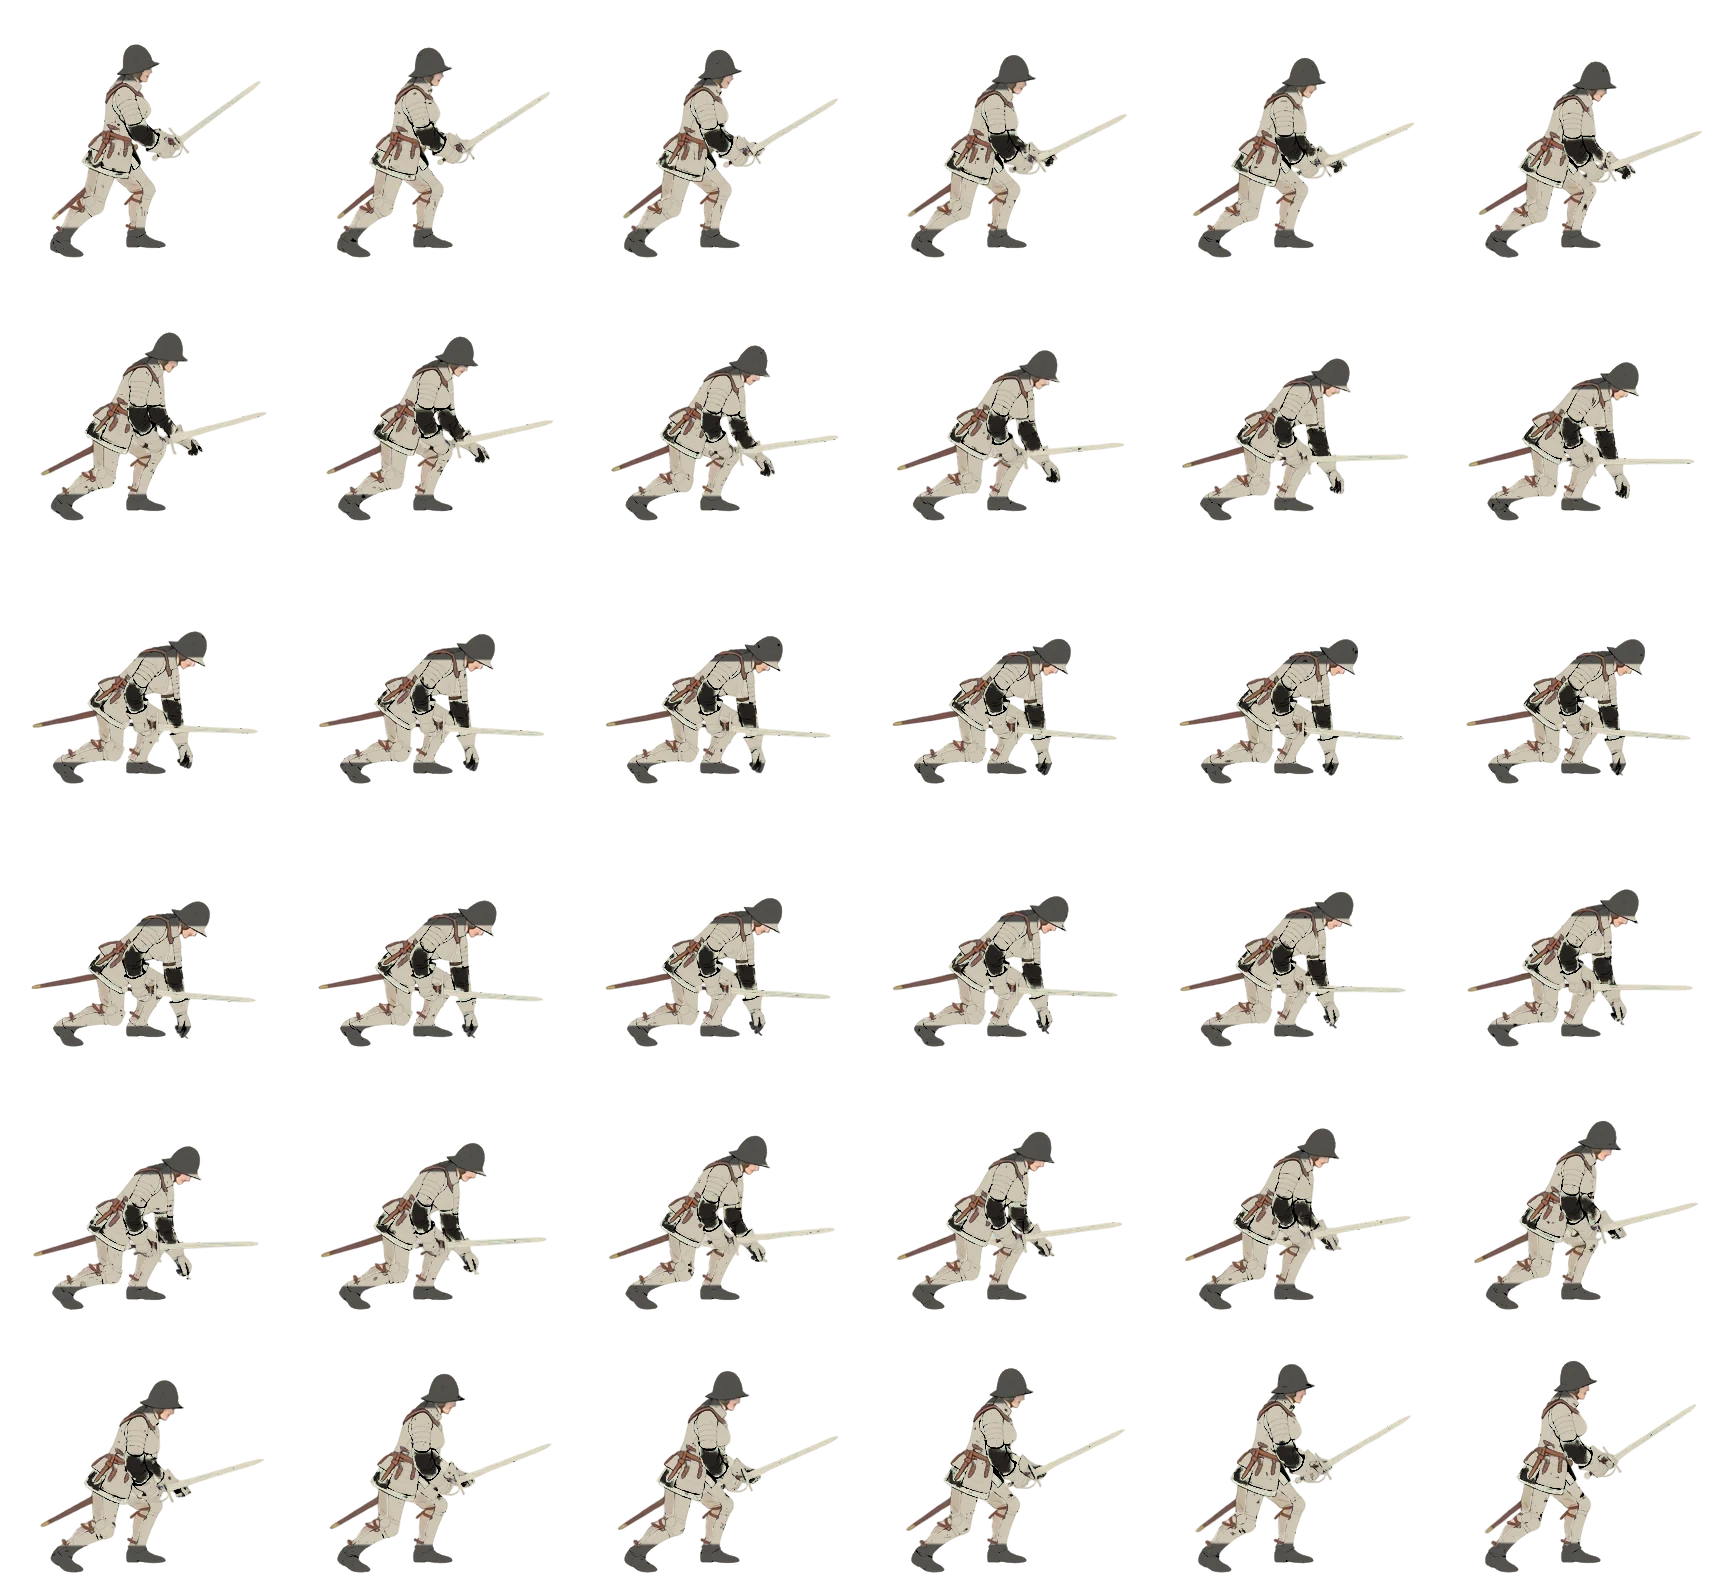
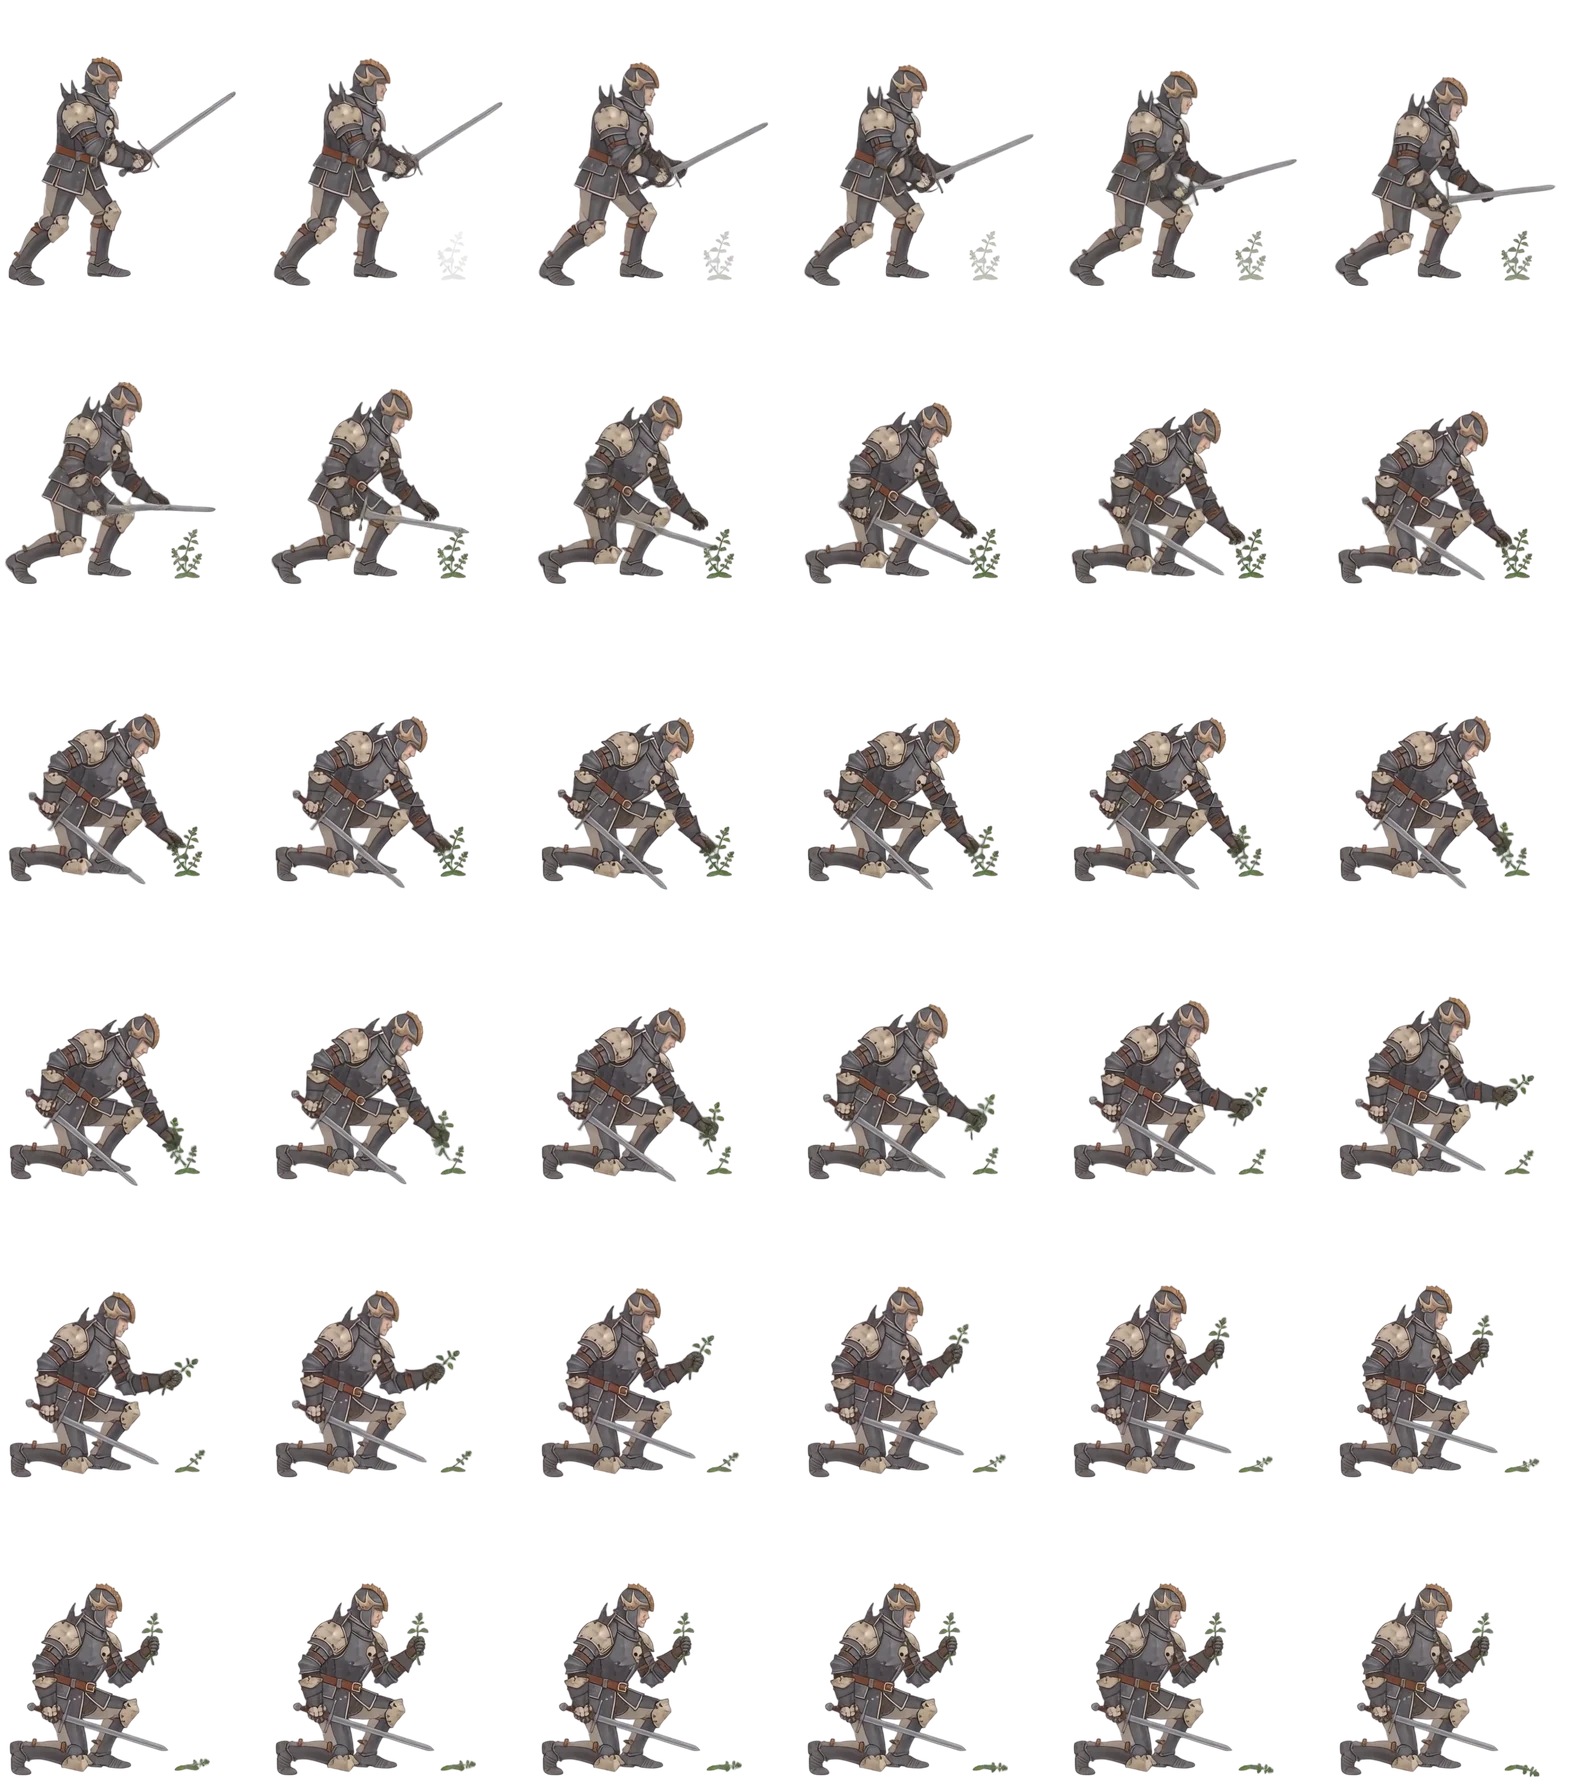
Fossoyeur : image de combat fidèle aux icônes du set, animations de carte Ludo (marche, minage, abattage, cueillette ; masculin et féminin)
L'ancienne image était presque blanche avec un heaume fermé, alors que le set est en fer sombre avec
des plaques d'os, un crâne et des pointes aux épaules. Nouveau script scripts/build-hero-outfit.py pour
assembler les animations d'une tenue ; la recoloration du Fossoyeur est retirée de recolor-hero.py.

Claude-Session: https://claude.ai/code/session_018rB1oVJsRriVojRURA2hky

diff --git a/scripts/build-hero-outfit.py b/scripts/build-hero-outfit.py
@@ -1,0 +1,48 @@
+"""
+Assemble les animations Ludo d'UNE tenue (un corps) en feuilles compactes pour le jeu, avec les mêmes réglages que build-hero-anims.py.
+
+Entrée  : un dossier avec <action>.webp (walk, mine, chop, herb : feuilles Ludo en « True Size », cellules de 760x700 alignées sur le cadre
+          source où les pieds du héros sont à (330, 670)) et jobs.json : { "walk": {"cols":6,"rows":6,"frames":36,"duration":2.1}, ... }
+Sortie  : public/assets/hero/<corps>/<tenue>/<action>.webp + métadonnées de src/data/heroAnims.json (clé "<corps>/<tenue>")
+          Le champ pngH (hauteur du héros dans le cadre source, 384) est celui des autres tenues.
+
+Usage   : python3 -I scripts/build-hero-outfit.py <dossier_entrée> <tenue> <corps>      ex. /tmp/foss fossoyeur m
+"""
+import json, os, sys
+from PIL import Image
+
+SRC, OUTFIT, BODY = sys.argv[1], sys.argv[2], sys.argv[3]
+ROOT = os.path.join(os.path.dirname(os.path.abspath(__file__)), "..")
+OUT = os.path.join(ROOT, "public", "assets", "hero", BODY, OUTFIT)
+META = os.path.join(ROOT, "src", "data", "heroAnims.json")
+FEET, SCALE, PAD, PNG_H = (330, 670), 0.6, 6, 384
+ACTIONS = ["walk", "mine", "chop", "herb"]
+jobs = json.load(open(os.path.join(SRC, "jobs.json")))
+
+def frames_of(path, m):
+    im = Image.open(path).convert("RGBA"); cw, ch = im.width // m["cols"], im.height // m["rows"]
+    return [im.crop(((i % m["cols"]) * cw, (i // m["cols"]) * ch, (i % m["cols"] + 1) * cw, (i // m["cols"] + 1) * ch)) for i in range(m["frames"])]
+
+per = {a: frames_of(os.path.join(SRC, a + ".webp"), jobs[a]) for a in ACTIONS}
+# boîte commune à toutes les actions (même point d'appui partout)
+x0 = y0 = 10**9; x1 = y1 = 0
+for fr in per.values():
+    for f in fr:
+        bb = f.getchannel("A").point(lambda a: 255 if a > 24 else 0).getbbox()
+        if bb: x0, y0, x1, y1 = min(x0, bb[0]), min(y0, bb[1]), max(x1, bb[2]), max(y1, bb[3])
+x0, y0, x1, y1 = max(0, x0 - PAD), max(0, y0 - PAD), min(760, x1 + PAD), min(700, y1 + PAD)
+fw, fh = round((x1 - x0) * SCALE), round((y1 - y0) * SCALE)
+meta = {"w": fw, "h": fh, "box": [x0, y0, x1, y1], "anchor": [round((FEET[0] - x0) * SCALE, 1), round((FEET[1] - y0) * SCALE, 1)],
+        "scale": SCALE, "actions": {}, "pngH": PNG_H}
+os.makedirs(OUT, exist_ok=True)
+for act, fr in per.items():
+    n = len(fr); cols = min(n, 6); rows = (n + cols - 1) // cols
+    sheet = Image.new("RGBA", (cols * fw, rows * fh), (0, 0, 0, 0))
+    for i, f in enumerate(fr):
+        g = f.crop((x0, y0, x1, y1)).convert("RGBa").resize((fw, fh), Image.LANCZOS).convert("RGBA")
+        sheet.paste(g, ((i % cols) * fw, (i // cols) * fh))
+    sheet.save(os.path.join(OUT, act + ".webp"), quality=88, method=6)
+    meta["actions"][act] = {"frames": n, "cols": cols, "rows": rows, "duration": round(jobs[act]["duration"], 3)}
+allm = json.load(open(META)); allm[f"{BODY}/{OUTFIT}"] = meta
+json.dump(allm, open(META, "w"), indent=1, ensure_ascii=False)
+print("ok", BODY, OUTFIT, (fw, fh), {a: len(f) for a, f in per.items()})

diff --git a/scripts/recolor-hero.py b/scripts/recolor-hero.py
@@ -1,7 +1,7 @@
 """
 Recolore GRATUITEMENT les feuilles d'animation du héros pour fabriquer la tenue d'un set sans payer de génération Ludo.
 
-  python3 -I scripts/recolor-hero.py <tenue>          ex. fossoyeur
+  python3 -I scripts/recolor-hero.py <tenue>          ex. un nom de tenue défini dans OUTFITS
 Source  : public/assets/hero/<corps>/<tenue de base>/<action>.webp   (veteran pour les guerriers, traqueur pour les assassins, apprenti pour les mages)
 Sortie  : public/assets/hero/<corps>/<tenue>/<action>.webp  + métadonnées copiées dans src/data/heroAnims.json
 Chaque tenue décrit des règles de teinte : (zone de teinte, saturation) -> nouvelle teinte, saturation et luminosité.
@@ -22,15 +22,11 @@ def smooth(x, a, b):
 # Règles : chaque règle a un masque doux (poids 0..1) et une transformation.
 #   steel  = métal gris (peu saturé, ni noir ni blanc) ;  cloth = tissu coloré (teinte dans [h0,h1], saturation minimale)
 OUTFITS = {
-    "fossoyeur": {
-        "base": "veteran",
-        "rules": [
-            {"kind": "bone", "val": 0.86, "sat": 0.13, "hue": 42},                                  # armure : plaques d'os pâle (comme l'image de combat)
-            {"kind": "dark", "from": 0.0, "to": 0.17, "val": 0.15},                                  # heaume noir (le haut du personnage, dans chaque image)
-            {"kind": "dark", "from": 0.86, "to": 1.0, "val": 0.17},                                  # bottes noires (le bas)
-            {"kind": "cloth", "hue": (130, 210), "sat_min": 0.10, "to_hue": 28, "to_sat": 0.18, "val_add": -0.30, "val_mul": 0.60},   # tunique verdâtre -> cuir sombre
-        ],
-    },
+    # (aucune tenue pour l'instant : le Fossoyeur a de vraies animations Ludo, voir build-hero-outfit.py.) Exemple de règles :
+    # "nom_du_set": {"base": "veteran", "rules": [
+    #     {"kind": "bone", "val": 0.86, "sat": 0.13, "hue": 42},                 # métal gris -> os pâle
+    #     {"kind": "dark", "from": 0.0, "to": 0.17, "val": 0.15},                # haut du personnage (heaume) très sombre
+    #     {"kind": "cloth", "hue": (130, 210), "sat_min": 0.10, "to_hue": 28, "to_sat": 0.18, "val_add": -0.30, "val_mul": 0.60}]},
 }
 
 def rgb_to_hsv(rgb):

diff --git a/README.md b/README.md
@@ -262,4 +262,4 @@ Le Bestiaire a un second bouton, **Équipements** : les 88 équipements du jeu (
 
 **Niveau minimum pour s'équiper** (`utils/equipReq.js`, logique dans `utils/equip.js`) : une pièce demande le niveau où commence sa région, soit palier 1 : aucun, palier 2 : 8, palier 3 : 14, palier 4 (donjon) : 20 ; les objets de boss sans palier ont le niveau de leur région (cape de l'Épouvantail 5, cœur de braise 8, anneau du Cavalier et armure maudite 14, armes du Veilleur 20). Le sac et la fiche du personnage grisent la pièce (« Niveau N requis »), la fiche du bestiaire l'indique. On peut fabriquer, ranger et vendre une pièce trop haute ; une pièce déjà portée (vieille sauvegarde) reste portée. Les simulés s'équipent plus tard que ces niveaux (10, 16, 20), aucun ne peut la contourner. Test : `scripts/test-equipreq.js`.
 
-Un set porté à 2 pièces ou plus change l'apparence du héros (ou on la choisit dans la fiche du personnage une fois une pièce du set possédée). Les trois premiers sets avaient leurs images ; les autres sont ajoutés un par un, à petit prix : l'**image de combat** (corps masculin et féminin) est générée avec Ludo (1,5 crédit par essai de 3 variantes), et les **animations de la carte** (marche, minage, abattage, cueillette) sont fabriquées gratuitement en recolorant celles de la tenue de base de la même classe avec `python3 -I scripts/recolor-hero.py <tenue>` (règles par tenue dans le script : teinte du métal et du tissu, plaques d'os, et zones sombres en haut et en bas du personnage pour le heaume et les bottes ; les feuilles et les métadonnées de `heroAnims.json` sont écrites toutes seules). Pour ajouter une tenue : image de combat dans `public/assets/combat/hero/{m,f}/<set>.webp`, une entrée dans `OUTFITS` du script, puis le nom du set dans `HERO_OUTFITS` et `OUTFIT_LABELS` (`src/data/heroSprites.js`). `scripts/test-heroskins.js` vérifie que chaque tenue proposée a toutes ses images. Faits : Fossoyeur. À faire : Charognard, Brasier, Chevalier Déchu, Loup-Garou, Esprit Errant, Garde Noyé, Veneur, Veuve.
+Un set porté à 2 pièces ou plus change l'apparence du héros (ou on la choisit dans la fiche du personnage une fois une pièce du set possédée). Les trois premiers sets avaient leurs images ; les autres sont ajoutés un par un, à petit prix : l'**image de combat** (corps masculin et féminin) est générée avec Ludo (1,5 crédit par essai de 3 variantes), et les **animations de la carte** (marche, minage, abattage, cueillette) sont fabriquées gratuitement en recolorant celles de la tenue de base de la même classe avec `python3 -I scripts/recolor-hero.py <tenue>` (règles par tenue dans le script : teinte du métal et du tissu, plaques d'os, et zones sombres en haut et en bas du personnage pour le heaume et les bottes ; les feuilles et les métadonnées de `heroAnims.json` sont écrites toutes seules). Pour ajouter une tenue : image de combat dans `public/assets/combat/hero/{m,f}/<set>.webp`, une entrée dans `OUTFITS` du script, puis le nom du set dans `HERO_OUTFITS` et `OUTFIT_LABELS` (`src/data/heroSprites.js`). `scripts/test-heroskins.js` vérifie que chaque tenue proposée a toutes ses images. Faits : Fossoyeur, dont l'image de combat suit les icônes du set (fer sombre, plaques d'os, crâne) et dont les animations de la carte ont été générées avec Ludo à partir de cette image (4 actions x 2 corps, modèle Hydra, `frame_size` -9 sur un cadre de 760x700 pour que tout reste aligné ; `python3 -I scripts/build-hero-outfit.py <dossier> <tenue> <corps>` les assemble, avec le même calibrage que les autres tenues : la recoloration seule ne change que les couleurs, pas la silhouette). À faire : Charognard, Brasier, Chevalier Déchu, Loup-Garou, Esprit Errant, Garde Noyé, Veneur, Veuve.
